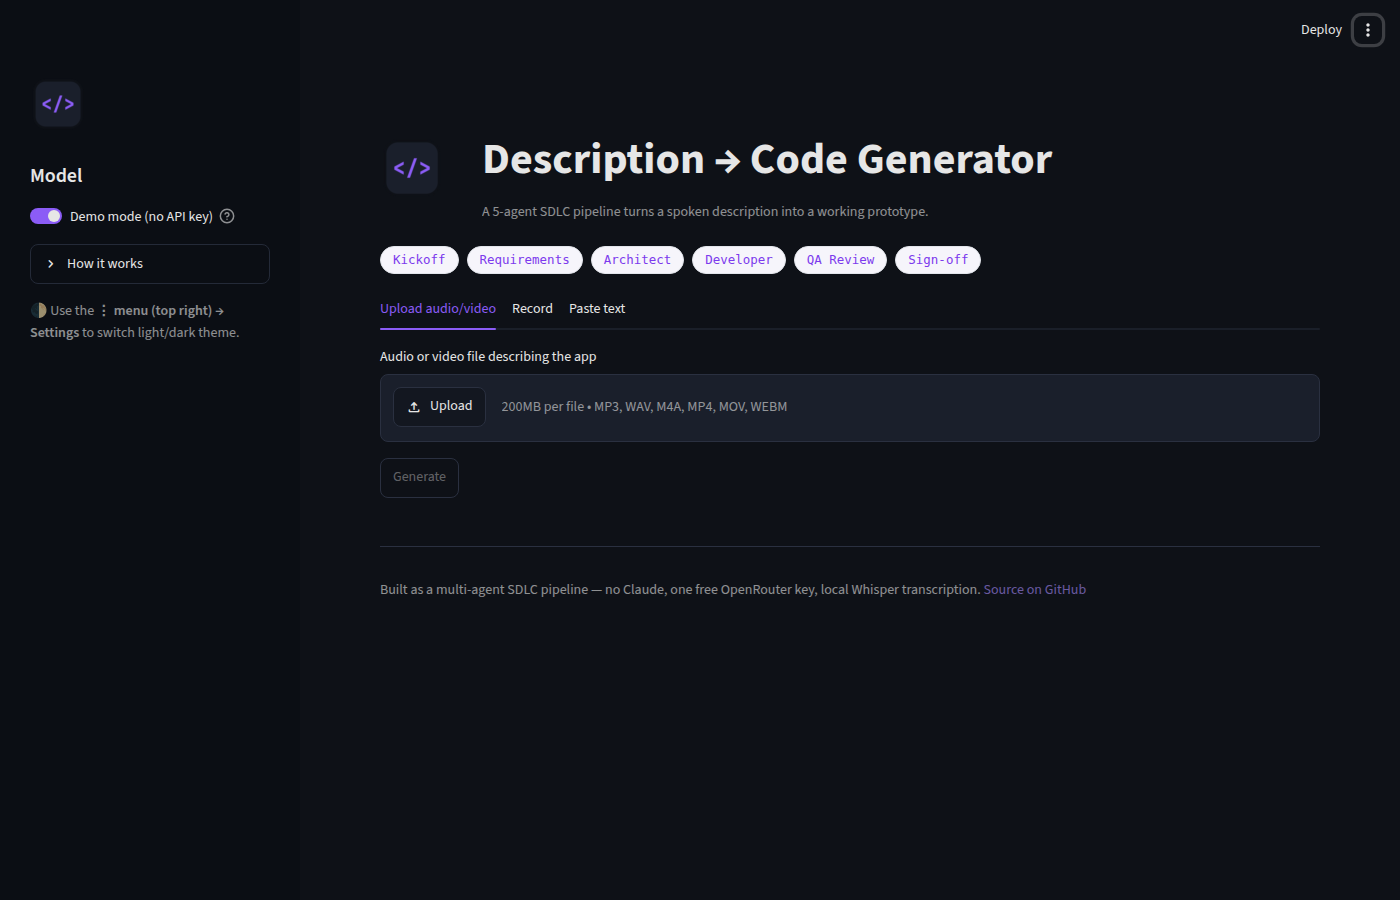
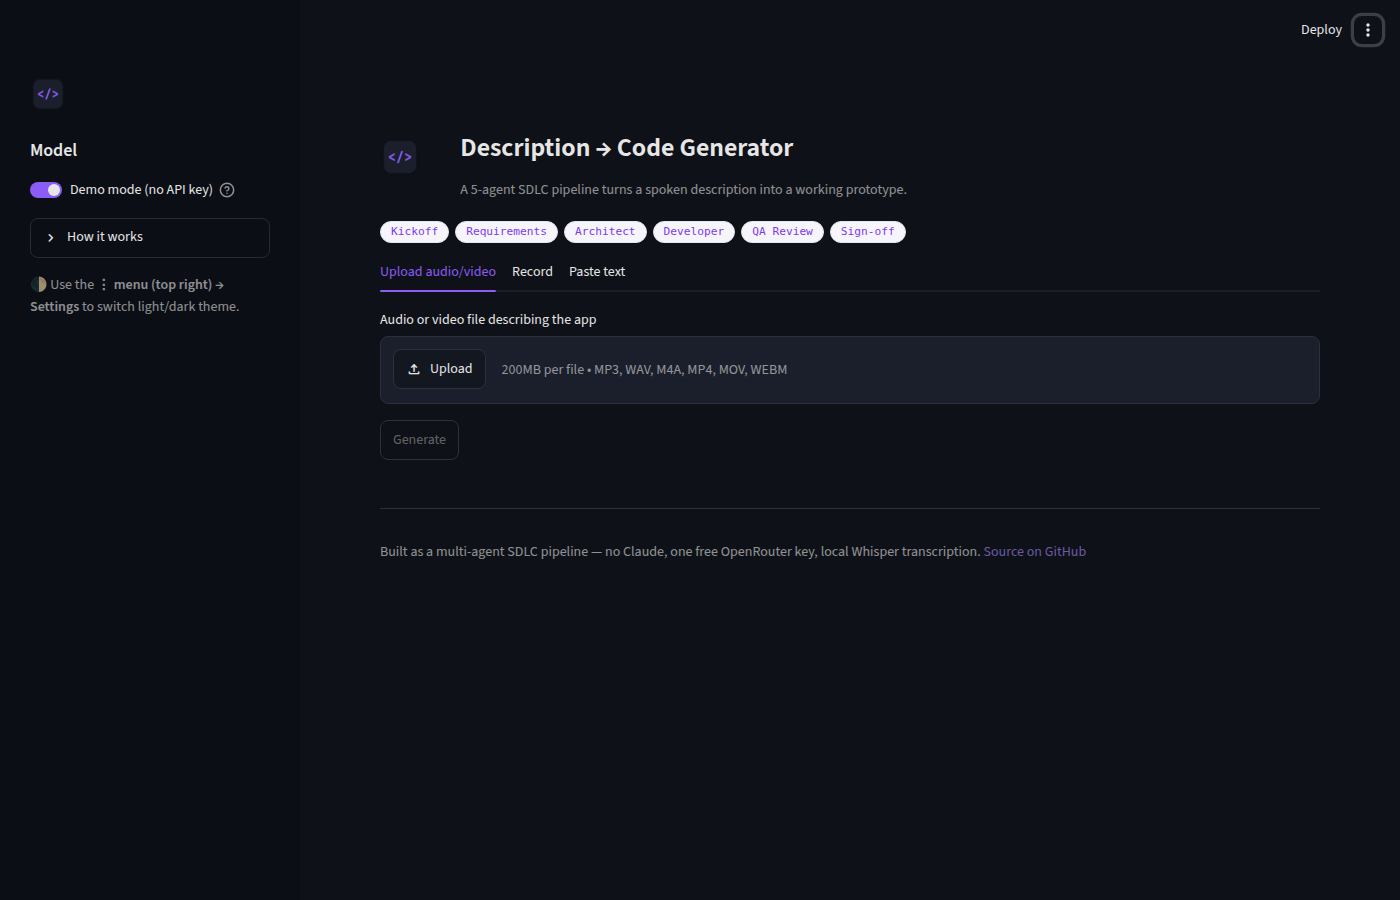
Add API key test-connection button, compact the UI, verify real audio path
- LLMProvider.test_connection() + a sidebar "Test" button that makes one
  cheap call to confirm an OpenRouter key/model combo works before
  spending a full 5-agent run on it, with friendlier error messages for
  the common failure cases (bad key, rate limit, unreachable, malformed
  reply). Fixed a real bug caught via Playwright: the failure message was
  rendered right before an unconditional st.rerun(), which wiped it before
  the browser ever saw it — moved the message into session_state like the
  pipeline result already was.
- Compact UI pass: smaller heading scale and sidebar/hero logos via
  .streamlit/config.toml (native theming, not custom CSS, per the
  framework's own guidance), tighter step-tracker/badge CSS, removed a
  redundant container-inside-expander nesting level, dropped the
  now-redundant "Result" heading, smaller live-preview height.
- Verified the actual audio transcription path for the first time (every
  prior test went through text-paste only): installed ffmpeg + espeak-ng,
  synthesized a real test mp3, and confirmed ffmpeg audio extraction,
  segment-joining, and temp-file cleanup all work correctly against it
  (now a permanent test, with only the network-dependent Whisper model
  call itself mocked — this sandbox's network policy blocks the Hugging
  Face Hub download, a sandbox limitation, not a code issue).

Claude-Session: https://claude.ai/code/session_01E9TyTYaN7yePXxu6a5pbRJ

diff --git a/app.py b/app.py
@@ -16,6 +16,19 @@ from pipeline.transcribe import PassthroughTranscriber, TranscriptionError, make
 
 st.set_page_config(page_title="Description → Code Generator", page_icon="assets/logo.png", layout="wide")
 
+
+def _friendly_llm_error(exc: LLMError) -> str:
+    msg = str(exc)
+    if "401" in msg:
+        return "That API key was rejected. Double-check it at openrouter.ai/keys."
+    if "429" in msg:
+        return "Rate-limited by OpenRouter. Wait a bit and try again, or switch models."
+    if "not valid JSON" in msg:
+        return "The model didn't reply in the expected format. Try again, or use a different model id."
+    if "Request to OpenRouter failed" in msg:
+        return "Couldn't reach OpenRouter — check your network connection."
+    return msg
+
 # ---------------------------------------------------------------------------
 # Almost all styling (colors, fonts, borders, radii) lives in
 # .streamlit/config.toml, which is the native, theme-switcher-preserving way
@@ -48,18 +61,18 @@ STAGE_NODES = [
 st.markdown(
     f"""
 <style>
-.badge-row {{ display:flex; gap:8px; flex-wrap:wrap; margin: 0.4rem 0 1rem 0; }}
+.badge-row {{ display:flex; gap:6px; flex-wrap:wrap; margin: 0.2rem 0 0.6rem 0; }}
 .badge {{ background:{C['card']}; border:1px solid {C['border']}; color:{C['accent_soft']};
-          border-radius:999px; padding:3px 12px; font-size:0.78rem; font-family:monospace; }}
-.step-track {{ display:flex; justify-content:space-between; position:relative; margin: 1.2rem 0 1.6rem 0; }}
-.step-track::before {{ content:''; position:absolute; top:18px; left:6%; right:6%; height:2px;
+          border-radius:999px; padding:1px 10px; font-size:0.7rem; font-family:monospace; }}
+.step-track {{ display:flex; justify-content:space-between; position:relative; margin: 0.6rem 0 0.7rem 0; }}
+.step-track::before {{ content:''; position:absolute; top:14px; left:6%; right:6%; height:2px;
           background:{C['border']}; z-index:0; }}
 .step {{ position:relative; z-index:1; display:flex; flex-direction:column; align-items:center;
-          gap:6px; flex:1; }}
-.step-icon {{ width:36px; height:36px; border-radius:50%; display:flex; align-items:center;
+          gap:3px; flex:1; }}
+.step-icon {{ width:28px; height:28px; border-radius:50%; display:flex; align-items:center;
           justify-content:center; background:{C['card']}; border:2px solid {C['border']};
-          color:{C['muted']}; font-size:1rem; }}
-.step-label {{ font-size:0.78rem; color:{C['muted']}; text-align:center; }}
+          color:{C['muted']}; font-size:0.85rem; }}
+.step-label {{ font-size:0.68rem; color:{C['muted']}; text-align:center; }}
 .step-done .step-icon {{ background:{C['accent']}; border-color:{C['accent']}; color:white; }}
 .step-done .step-label {{ color:inherit; }}
 .step-running .step-icon {{ border-color:{C['accent']}; color:{C['accent']};
@@ -75,8 +88,8 @@ st.markdown(
 # Sidebar
 # ---------------------------------------------------------------------------
 with st.sidebar:
-    st.image("assets/logo.png", width=56)
-    st.header("Model")
+    st.image("assets/logo.png", width=36)
+    st.subheader("Model")
     demo_mode = st.toggle(
         "Demo mode (no API key)",
         value=True,
@@ -95,6 +108,32 @@ with st.sidebar:
             value=DEFAULT_MODEL,
             help="Any OpenRouter model id. Check openrouter.ai/models for what's currently free.",
         )
+        # Changing the key or model invalidates any earlier "known good" test.
+        if st.session_state.get("tested_key") != (api_key, model_id):
+            st.session_state.pop("connection_ok", None)
+            st.session_state.pop("connection_error", None)
+
+        test_col, status_col = st.columns([1, 2], vertical_alignment="center")
+        with test_col:
+            test_clicked = st.button("🔌 Test", disabled=not api_key, use_container_width=True)
+        with status_col:
+            if "connection_ok" in st.session_state:
+                st.caption("✅ Connected" if st.session_state["connection_ok"] else "❌ Failed — see below")
+        if test_clicked:
+            with st.spinner("Testing…"):
+                try:
+                    OpenRouterProvider(Secrets(api_key), model=model_id).test_connection()
+                    st.session_state["connection_ok"] = True
+                    st.session_state.pop("connection_error", None)
+                except LLMError as exc:
+                    st.session_state["connection_ok"] = False
+                    st.session_state["connection_error"] = _friendly_llm_error(exc)
+                st.session_state["tested_key"] = (api_key, model_id)
+            st.rerun()
+
+        if st.session_state.get("connection_ok") is False and "connection_error" in st.session_state:
+            st.error(st.session_state["connection_error"])
+
         st.caption("One OpenRouter key powers every agent below. Transcription runs locally and needs no key.")
 
     with st.expander("How it works"):
@@ -114,9 +153,9 @@ with st.sidebar:
 # ---------------------------------------------------------------------------
 # Hero
 # ---------------------------------------------------------------------------
-col_logo, col_title = st.columns([1, 9], vertical_alignment="center")
+col_logo, col_title = st.columns([1, 12], vertical_alignment="center")
 with col_logo:
-    st.image("assets/logo.png", width=64)
+    st.image("assets/logo.png", width=40)
 with col_title:
     st.title("Description → Code Generator")
     st.caption("A 5-agent SDLC pipeline turns a spoken description into a working prototype.")
@@ -215,7 +254,7 @@ def _run_pipeline(transcript: str) -> None:
     try:
         result = orchestrator.run(transcript, on_stage=on_stage)
     except LLMError as exc:
-        st.error(f"The model backend failed: {exc}")
+        st.error(_friendly_llm_error(exc))
         return
     st.session_state["result"] = result
     st.session_state["last_transcript"] = transcript
@@ -261,44 +300,38 @@ if st.session_state.pop("regenerate_requested", False) and "last_transcript" in 
 if "result" in st.session_state:
     result = st.session_state["result"]
 
-    st.subheader("Result")
-    st.success(result.summary)
+    st.success(result.summary, icon="✅")
 
     col_left, col_right = st.columns(2)
     with col_left:
+        with st.expander("Requirements", expanded=False):
+            st.json(result.requirements.to_dict())
+        with st.expander("Architecture", expanded=False):
+            st.json(result.architecture.to_dict())
         with st.container(border=True):
-            st.write("**Requirements**")
-            with st.expander("View", expanded=False):
-                st.json(result.requirements.to_dict())
-        with st.container(border=True):
-            st.write("**Architecture**")
-            with st.expander("View", expanded=False):
-                st.json(result.architecture.to_dict())
-        with st.container(border=True):
-            st.write(f"**QA history** ({result.iterations} iteration(s))")
+            st.caption(f"QA history — {result.iterations} iteration(s)")
             for i, qa in enumerate(result.qa_reports, start=1):
                 st.write(f"Pass {i}: {'✅ passed' if qa.passed else '⚠ issues found'}")
                 for issue in qa.issues:
                     st.caption(f"– {issue}")
     with col_right:
-        with st.container(border=True):
-            st.write("**Live preview**")
-            st.components.v1.html(result.html, height=440, scrolling=True)
-            dl_col, regen_col, reset_col = st.columns(3)
-            with dl_col:
-                st.download_button("⬇ Download", data=result.html, file_name="index.html", mime="text/html", use_container_width=True)
-            with regen_col:
-                if st.button("🔁 Regenerate", use_container_width=True):
-                    st.session_state["regenerate_requested"] = True
-                    st.rerun()
-            with reset_col:
-                if st.button("↺ Start over", use_container_width=True):
-                    st.session_state.pop("result", None)
-                    st.session_state.pop("last_transcript", None)
-                    st.session_state["input_generation"] = st.session_state.get("input_generation", 0) + 1
-                    st.rerun()
-            with st.expander("View source"):
-                st.code(result.html, language="html")
+        st.caption("Live preview")
+        st.components.v1.html(result.html, height=340, scrolling=True)
+        dl_col, regen_col, reset_col = st.columns(3)
+        with dl_col:
+            st.download_button("⬇ Download", data=result.html, file_name="index.html", mime="text/html", use_container_width=True)
+        with regen_col:
+            if st.button("🔁 Regenerate", use_container_width=True):
+                st.session_state["regenerate_requested"] = True
+                st.rerun()
+        with reset_col:
+            if st.button("↺ Start over", use_container_width=True):
+                st.session_state.pop("result", None)
+                st.session_state.pop("last_transcript", None)
+                st.session_state["input_generation"] = st.session_state.get("input_generation", 0) + 1
+                st.rerun()
+        with st.expander("View source"):
+            st.code(result.html, language="html")
 
     with st.expander("Prompt log (every prompt sent to the model)"):
         for entry in result.prompt_log:

diff --git a/tests/test_pipeline.py b/tests/test_pipeline.py
@@ -1,5 +1,9 @@
 import re
+import shutil
+import subprocess
+import tempfile
 from pathlib import Path
+from unittest.mock import MagicMock, patch
 
 import pytest
 
@@ -7,7 +11,7 @@ from pipeline.agents import ArchitectAgent, DeveloperAgent, ProjectManagerAgent,
 from pipeline.llm import MockLLMProvider
 from pipeline.orchestrator import Orchestrator
 from pipeline.secrets import Secrets
-from pipeline.transcribe import PassthroughTranscriber, make_transcriber_for
+from pipeline.transcribe import LocalWhisperTranscriber, PassthroughTranscriber, make_transcriber_for
 
 SAMPLE_TRANSCRIPT = Path("examples/sample_transcript.txt").read_text()
 
@@ -29,6 +33,25 @@ def test_secrets_reports_no_key():
     assert not secrets.has_openrouter_key
     with pytest.raises(ValueError):
         secrets.reveal_openrouter_key()
+
+
+def test_test_connection_succeeds_on_a_working_provider():
+    class OkProvider(MockLLMProvider):
+        def complete(self, prompt):
+            return "OK"
+
+    assert OkProvider().test_connection() == "OK"
+
+
+def test_test_connection_propagates_llm_error():
+    from pipeline.llm import LLMError, LLMProvider
+
+    class BrokenProvider(LLMProvider):
+        def complete(self, prompt):
+            raise LLMError("OpenRouter rejected the API key (401 Unauthorized)")
+
+    with pytest.raises(LLMError, match="401"):
+        BrokenProvider().test_connection()
 
 
 def test_passthrough_transcriber_reads_text_file(tmp_path):
@@ -107,6 +130,44 @@ def test_orchestrator_runs_full_loop_and_ends_passed():
     assert len(result.prompt_log) == len(orchestrator.prompt_log)
     # every prompt actually sent is recorded, in call order
     assert [p["stage"] for p in result.prompt_log][:3] == ["pm_kickoff", "requirements", "architect"]
+
+
+def test_local_whisper_transcriber_joins_segments_and_cleans_up_temp_files(tmp_path):
+    """The real faster-whisper model needs a network call to download its
+    weights, which isn't something a unit test should depend on — so the
+    model itself is mocked here. What's under real test is everything
+    around it: joining segment text, and (for video input) invoking ffmpeg
+    to extract the audio track and cleaning up the temp .wav afterwards.
+    """
+    transcriber = LocalWhisperTranscriber(model_size="tiny")
+    fake_segments = [MagicMock(text=" Hello world."), MagicMock(text=" This is a test.")]
+    fake_model = MagicMock()
+    fake_model.transcribe.return_value = (fake_segments, {"language": "en"})
+
+    audio_path = tmp_path / "in.wav"
+    audio_path.write_bytes(b"RIFF....WAVEfmt ")  # never actually decoded; the model is mocked
+    with patch.object(transcriber, "_get_model", return_value=fake_model):
+        assert transcriber.transcribe(audio_path) == "Hello world. This is a test."
+
+    ffmpeg = shutil.which("ffmpeg")
+    if ffmpeg is None:
+        pytest.skip("ffmpeg not installed in this environment")
+
+    video_path = tmp_path / "in.mp4"
+    subprocess.run(
+        [
+            ffmpeg, "-y",
+            "-f", "lavfi", "-i", "color=c=black:s=64x64:d=1",
+            "-f", "lavfi", "-i", "anullsrc=r=16000:cl=mono",
+            "-shortest", "-c:v", "libx264", "-c:a", "aac", str(video_path),
+        ],
+        check=True, capture_output=True,
+    )
+    before = set(Path(tempfile.gettempdir()).glob("*.wav"))
+    with patch.object(transcriber, "_get_model", return_value=fake_model):
+        assert transcriber.transcribe(video_path) == "Hello world. This is a test."
+    after = set(Path(tempfile.gettempdir()).glob("*.wav"))
+    assert after == before, "temp .wav extracted from the video was not cleaned up"
 
 
 def test_orchestrator_respects_max_iterations_even_if_never_passes():

diff --git a/pipeline/llm.py b/pipeline/llm.py
@@ -32,6 +32,13 @@ class LLMProvider(ABC):
     def complete(self, prompt: str) -> str:
         """Return the model's raw text reply to `prompt`."""
 
+    def test_connection(self) -> str:
+        """One cheap call to confirm the key/model combo actually works,
+        before spending a full 5-agent run on it. Returns the raw reply on
+        success; raises LLMError (with the real cause) on failure.
+        """
+        return self.complete("Reply with exactly one word: OK")
+
     def complete_json(self, prompt: str) -> dict | list:
         """Return the reply parsed as JSON, tolerant of prose around it."""
         raw = self.complete(prompt)

diff --git a/docs/PROCESS.md b/docs/PROCESS.md
@@ -187,6 +187,39 @@ The same pass also caught (and fixed) a latent issue where clicking
 whole script — would have made the entire Result section vanish, because
 it lived in a local variable instead of `st.session_state`.
 
+## Round three: testing the real audio path, and a connection-test button
+
+Up to this point every test — including all the Playwright runs — had gone
+through the text-paste input, never the actual audio transcription code.
+That's a gap: `LocalWhisperTranscriber` is the part of the app most likely
+to break in ways a text-only test can't catch (wrong ffmpeg invocation,
+temp files not cleaned up, a model that fails to load). So before adding
+anything new, I closed it: installed `ffmpeg` and `espeak-ng` in this
+sandbox, synthesized a real 18-second spoken app description with
+espeak-ng, converted it to mp3, and ran it through the actual transcriber
+code. That surfaced a real, sandbox-specific limitation rather than a code
+bug: `faster-whisper` downloads its model from Hugging Face Hub on first
+use, and this sandbox's network policy blocks huggingface.co outright.
+Everything *around* that call — ffmpeg extracting audio from a synthetic
+test video, joining Whisper's segment objects into one transcript, cleaning
+up the temp `.wav` file afterward — checks out and is now a permanent test
+(mocking only the model itself, since that's the one piece that needs a
+network call this environment won't allow). Streamlit Community Cloud has
+normal outbound internet access, so the actual model download should work
+fine there; that's the one part of this project I can't verify from inside
+this sandbox and said so plainly rather than claiming a live run.
+
+**Adding a "Test connection" button** for the OpenRouter key turned up a
+second real bug the same way the UI-polish round did: the handler called
+`st.error(...)` inside an `except` block and then unconditionally called
+`st.rerun()` right after it — which interrupts the script immediately, so
+the error text never actually reached the browser before being wiped by
+the rerun it triggered. Caught this by clicking the button with Playwright
+using a deliberately bad key and noticing the failure *badge* appeared but
+the detailed message didn't. Fixed by storing the message in
+`session_state` (the same pattern already used for `result`) and rendering
+it on every run instead of only inside the failing branch.
+
 ## What I'd do next with more time
 
 - Let the Architect propose more than one screen/entity and have the

diff --git a/README.md b/README.md
@@ -78,8 +78,9 @@ Open the sidebar and either:
 - turn on **Demo mode** — runs the full 5-agent pipeline (including the
   QA→Developer loop) against deterministic canned responses, no API key,
   no network call, works immediately; or
-- turn it off and paste in a **free OpenRouter API key** (see below) to
-  run it against real models.
+- turn it off, paste in a **free OpenRouter API key** (see below), and hit
+  **🔌 Test** to confirm the key/model combo actually works before running
+  the full pipeline on it.
 
 Pick one of three bundled example descriptions (task tracker, recipe box,
 contact list) from the dropdown and click **Load example** to try it
